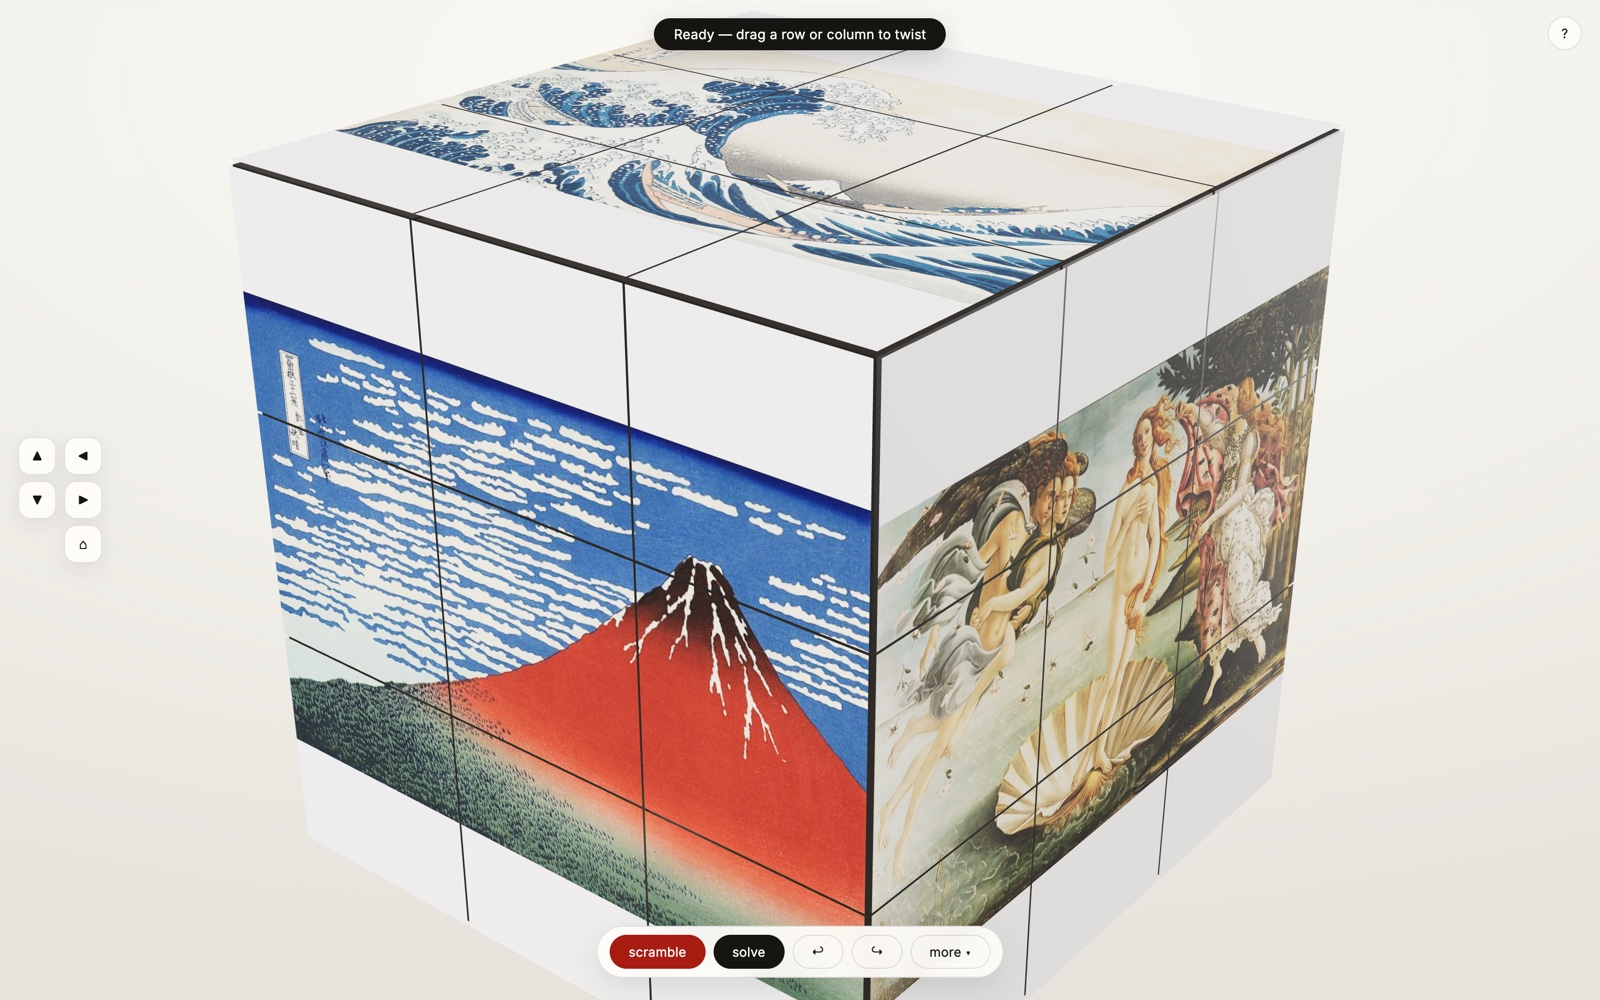
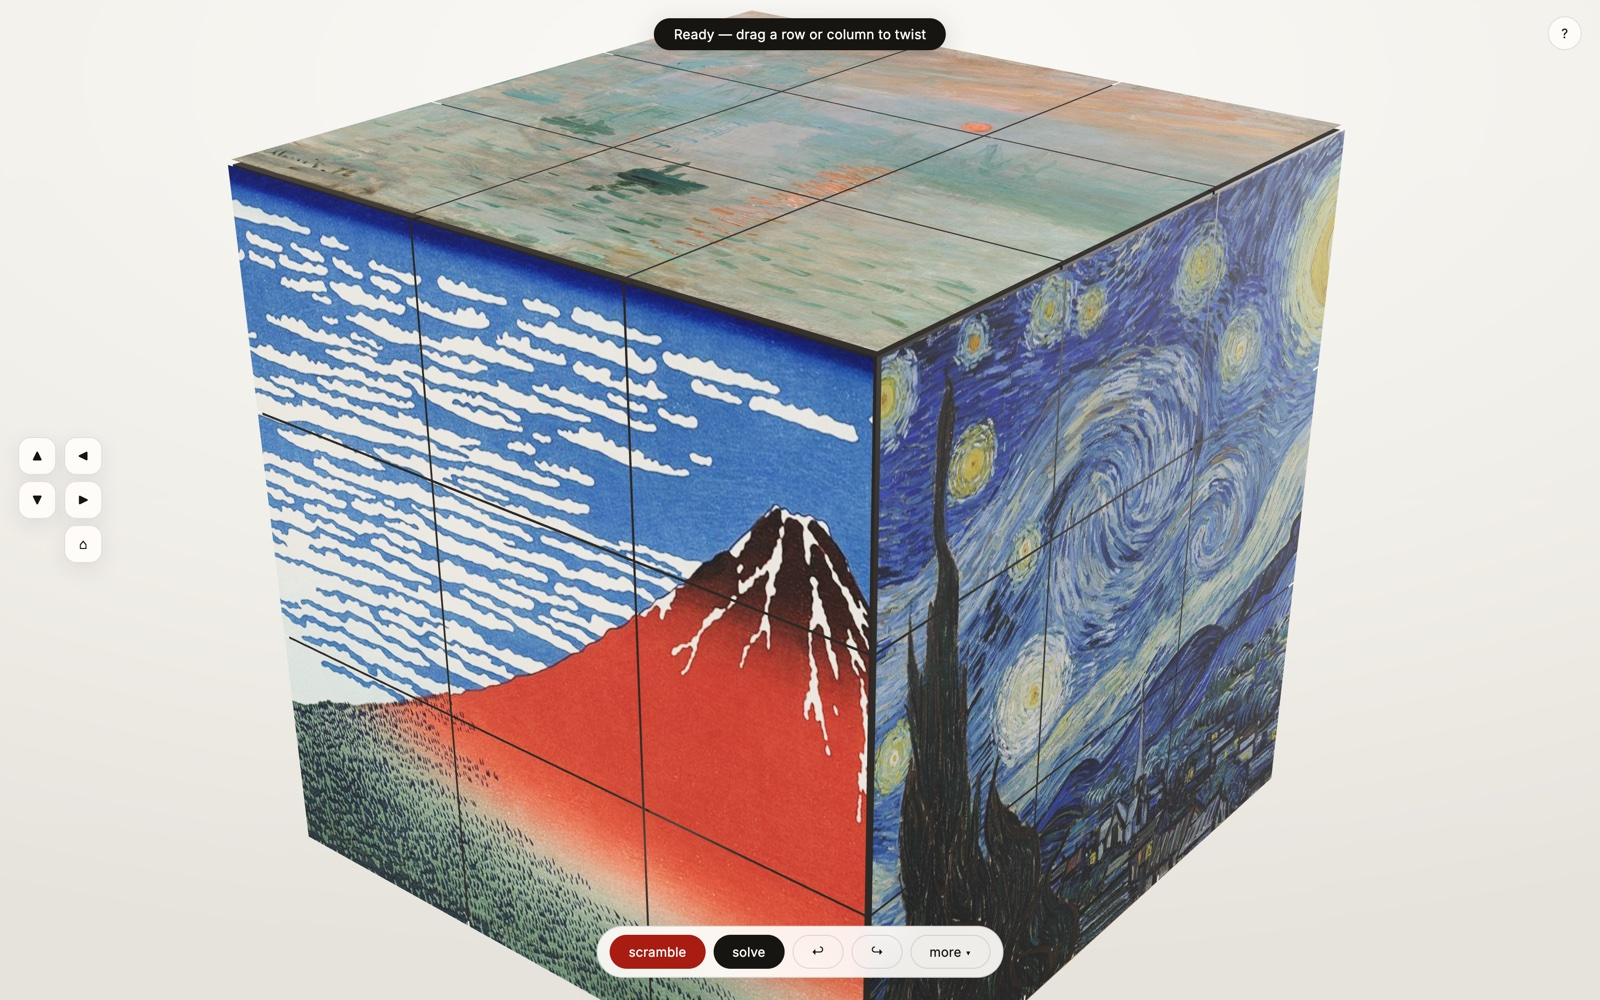
Cover-crop demo-pack images so faces fill edge-to-edge (no letterbox); refresh hero screenshots

diff --git a/src/ui/Onboarding.tsx b/src/ui/Onboarding.tsx
@@ -10,7 +10,7 @@ import { useRef, useState } from 'react';
 import { useCubeStore, hasAllImages } from '../store/useCubeStore';
 import { FACES } from '../core/faces';
 import type { Face } from '../core/faces';
-import { toSquareDataUrl, loadBitmap } from '../imaging/compose';
+import { toSquareDataUrl, loadBitmap, decodeDataUrl } from '../imaging/compose';
 import { DEMO_IMAGES, samplePack } from '../imaging/demoPack';
 
 const NET: Array<{ face: Face; col: number; row: number }> = [
@@ -72,21 +72,32 @@ export function Onboarding(): JSX.Element | null {
     await applyToFace(face, toSquareDataUrl(bitmap, 'contain'));
   };
 
+  /**
+   * Demo pictures are cover-cropped to a square at pick time — the artworks
+   * fill their faces edge-to-edge with no letterbox bands (an already-square
+   * image composed later with 'contain' is an identity, so nothing downstream
+   * can reintroduce borders).
+   */
+  const coverSquare = async (url: string): Promise<string> =>
+    toSquareDataUrl(await decodeDataUrl(url), 'cover');
+
   /** demo thumbnail → next empty slot (or the repaint target) */
   const useDemo = async (file: string) => {
+    const squared = await coverSquare(file);
     if (single) {
-      await applyToFace(repaintFace!, file);
+      await applyToFace(repaintFace!, squared);
       return;
     }
     const nextEmpty = FACES.find((f) => typeof images[f] !== 'string');
-    if (nextEmpty) await applyToFace(nextEmpty, file);
+    if (nextEmpty) await applyToFace(nextEmpty, squared);
   };
 
-  const shufflePack = () => {
+  const shufflePack = async () => {
     const picks6 = samplePack(6);
+    const squared = await Promise.all(picks6.map((p) => coverSquare(p.file)));
     const next: Partial<Record<Face, string>> = {};
     FACES.forEach((f, i) => {
-      next[f] = picks6[i].file;
+      next[f] = squared[i];
     });
     setPicks(next);
   };
@@ -150,7 +161,7 @@ export function Onboarding(): JSX.Element | null {
           <div className="demo-head">
             <span className="demo-label">free starter pack — public-domain art</span>
             {!single && (
-              <button className="ghost demo-shuffle" onClick={() => shufflePack()}>
+              <button className="ghost demo-shuffle" onClick={() => void shufflePack()}>
                 shuffle onto all faces
               </button>
             )}
